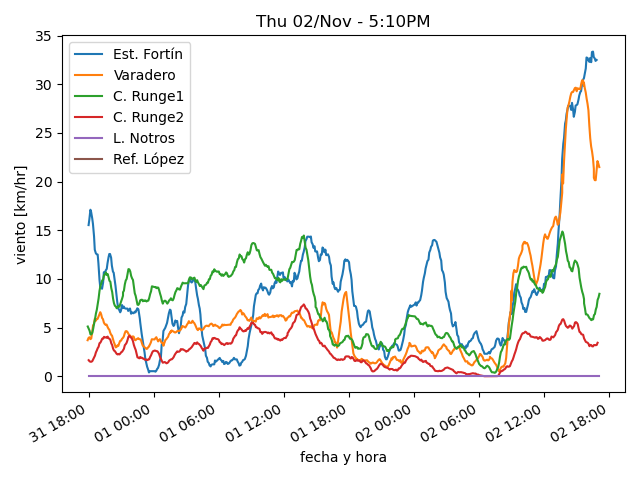
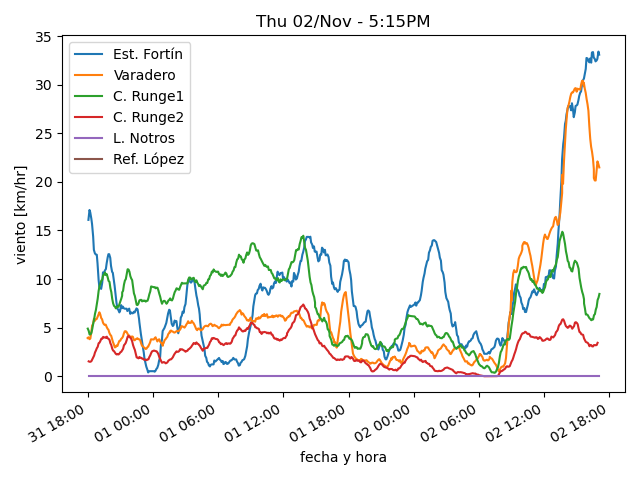
actualiza datos

diff --git a/estaciones/estacion1.html b/estaciones/estacion1.html
@@ -18,7 +18,7 @@
     </tr>
     <tr>
      <td class="stats_data">
-      4:49PM
+      5:03PM
      </td>
     </tr>
     <tr>
@@ -43,7 +43,7 @@
     </tr>
     <tr>
      <td class="stats_data">
-      13.5/30.0 km/hr W
+      24.9/31.4 km/hr WNW
      </td>
     </tr>
     <tr>
@@ -53,12 +53,12 @@
     </tr>
     <tr>
      <td class="stats_data">
-      3.3
+      2.7
      </td>
     </tr>
     <tr>
      <td class="stats_data">
-      693.0 W/m²
+      726.0 W/m²
      </td>
     </tr>
    </tbody>
